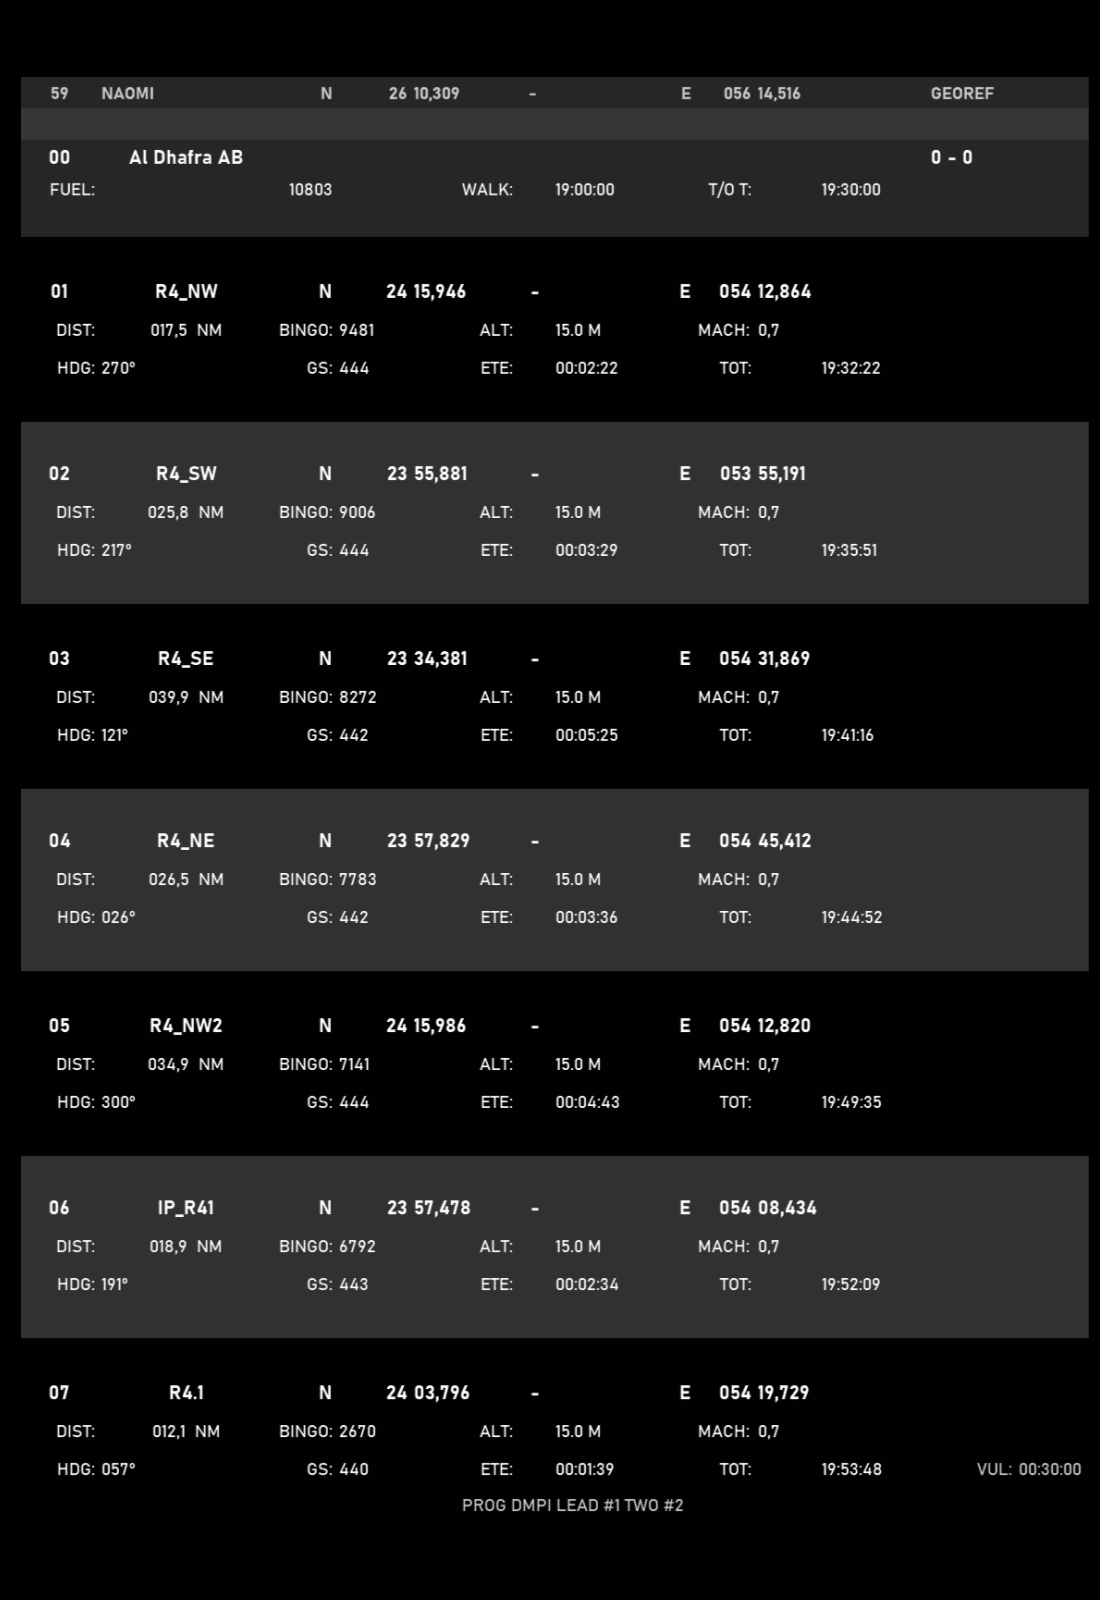
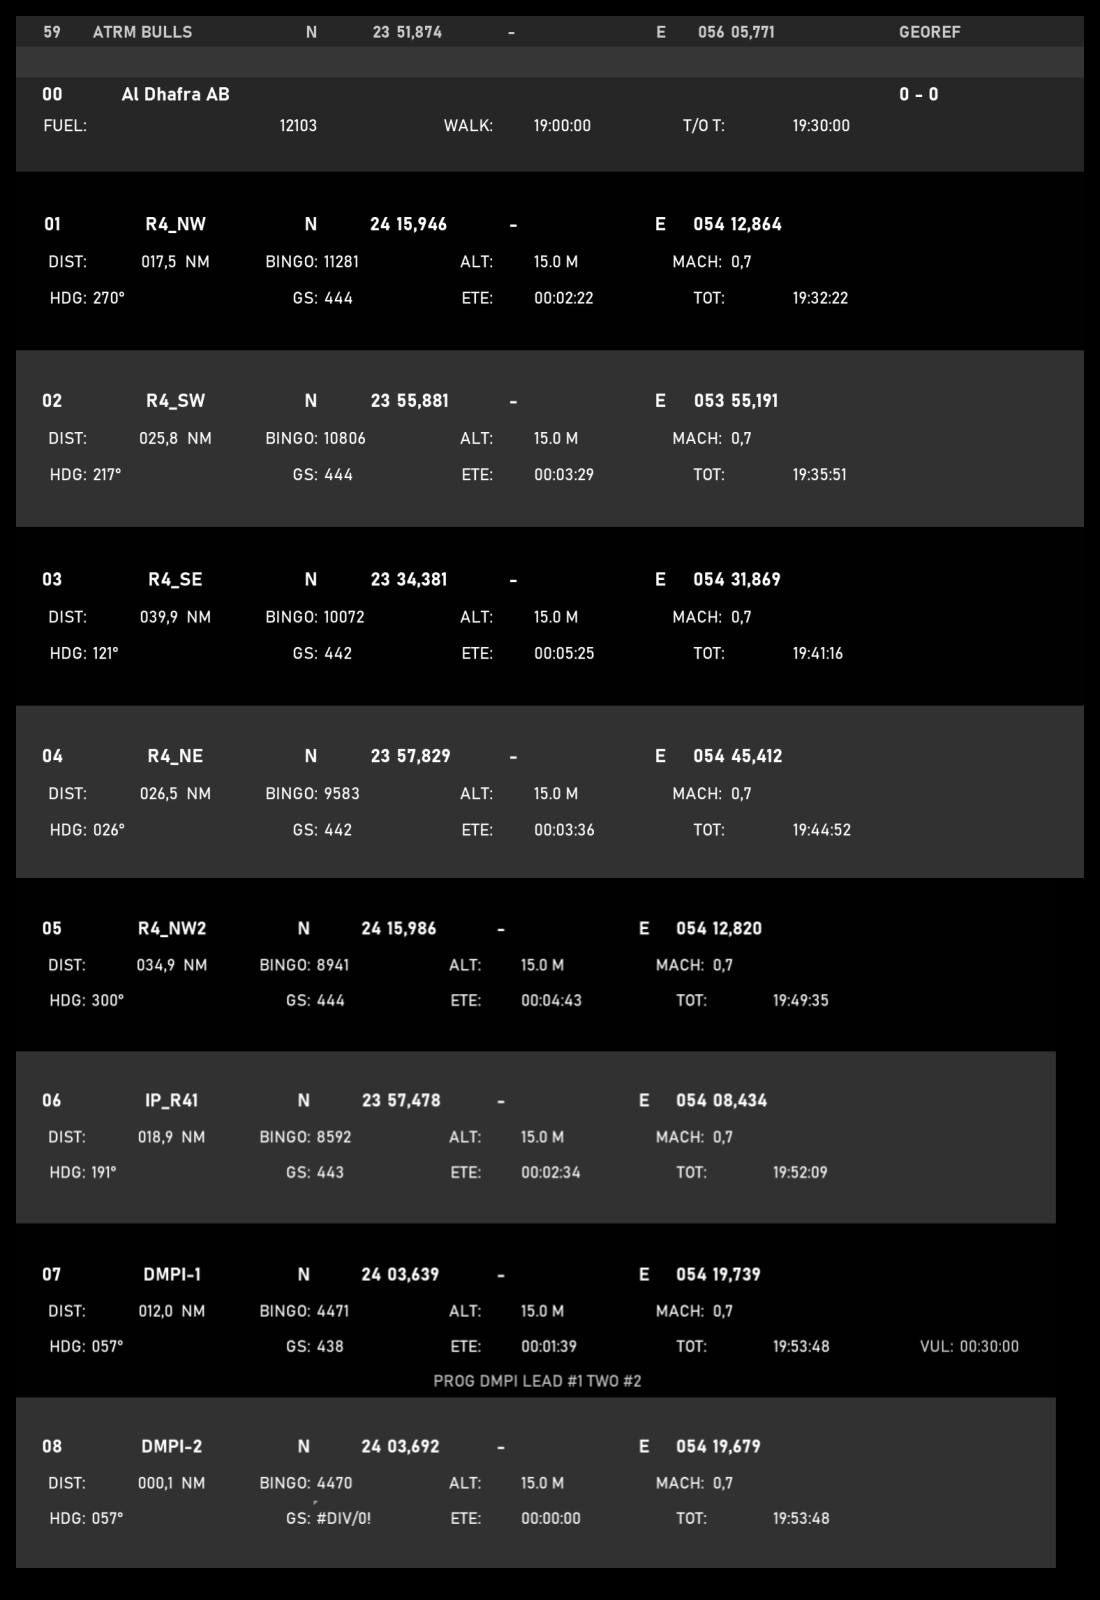
PREPPVIPERFL

diff --git a/index.md b/index.md
@@ -2,24 +2,17 @@
 - | - | -
 [VIPER START](/F16START.MD) | [FLIP GULF](https://www.dropbox.com/s/sp91zf63rx0esao/FLIP_GULFR2_EC1.pdf?dl=0) | [FLIP CAUCASUS](https://www.dropbox.com/s/ppiqy9ba7i8h8op/FLIP_CAUR_EC1.pdf?dl=0)
 
-## VIPER 1 - TR5041
+## VIPER 1 - TR5405
 
 Flight Lead: DAVID  
-WM2: NECK  
-EL: ASHILTA  
-TACAN:: 62 - 125Y  
+WM2: TROLLEF  
+Element Lead:   
+WM4:   
+TACAN: 62 - 125Y  
 
-
-
-## FP
-DEP: VFR SOUTH, 350IAS INI.FL120 DIR. RANGE4  
-REC: ATC DISCRETION  
---  
-LOAD: X6 MK82 LD PER A/C  
-				
-## Objective
-Range practise RGN 4  
-
+## FLIGHTPLAN
+"DEP: VFR SOUTH, 350IAS INI.FL120 DIR. RANGE4
+REC: ATC DISCRETION"
 
 ## LOADOUT
 
@@ -29,62 +22,73 @@ S1 - CAP-9M | S9 - AN/ASQ-T50
 S2 - - | S8 - -
 S3 - 3xMK-82 LD | S7 - 3xMK-82 LD
 S4 - TANK 370 | S6 - TANK 370
-S5 - - | GUN - SAPHEI
-CHAFF - 60 | FLARE - 60
+S5L -  | S5R - 
+S5 - - | SGUN - SAPHEI
+SCHAFF - 60 | SFLARE - 60
 
+				
+## Objective
+Range practise RGN 4  
 
 
 ## STEERPOINTS
 
 ---  												
-###	59	NAOMI	N	26	10,309	  -  	E	056	14,516		GEOREF	
+###	59	ATRM BULLS	N	23	51,874	  -  	E	056	05,771		GEOREF	
 												
 ---  												
 ####	00	Al Dhafra AB									0 - 0	
-#####  	FUEL:		MAX		WALK:		19:00:00	T/O T:		19:30:00		
+#####  	FUEL:		12103		WALK:		19:00:00	T/O T:		19:30:00		
 												
 												
 ---  												
 ###	01	R4_NW	N	24	15,946	  -  	E	054	12,864			
-#####	DIST:	017,5  NM	BINGO:	9481	ALT:		15.0 M	MACH:	0,7			
+#####	DIST:	017,5  NM	BINGO:	11281	ALT:		15.0 M	MACH:	0,7			
 #####	HDG:	270°	GS:	444	ETE:		00:02:22	TOT:		19:32:22		
 												
 												
 ---  												
 ###	02	R4_SW	N	23	55,881	  -  	E	053	55,191			
-#####	DIST:	025,8  NM	BINGO:	9006	ALT:		15.0 M	MACH:	0,7			
+#####	DIST:	025,8  NM	BINGO:	10806	ALT:		15.0 M	MACH:	0,7			
 #####	HDG:	217°	GS:	444	ETE:		00:03:29	TOT:		19:35:51		
 												
 												
 ---  												
 ###	03	R4_SE	N	23	34,381	  -  	E	054	31,869			
-#####	DIST:	039,9  NM	BINGO:	8272	ALT:		15.0 M	MACH:	0,7			
+#####	DIST:	039,9  NM	BINGO:	10072	ALT:		15.0 M	MACH:	0,7			
 #####	HDG:	121°	GS:	442	ETE:		00:05:25	TOT:		19:41:16		
 												
 												
 ---  												
 ###	04	R4_NE	N	23	57,829	  -  	E	054	45,412			
-#####	DIST:	026,5  NM	BINGO:	7783	ALT:		15.0 M	MACH:	0,7			
+#####	DIST:	026,5  NM	BINGO:	9583	ALT:		15.0 M	MACH:	0,7			
 #####	HDG:	026°	GS:	442	ETE:		00:03:36	TOT:		19:44:52		
 												
 												
 ---  												
 ###	05	R4_NW2	N	24	15,986	  -  	E	054	12,820			
-#####	DIST:	034,9  NM	BINGO:	7141	ALT:		15.0 M	MACH:	0,7			
+#####	DIST:	034,9  NM	BINGO:	8941	ALT:		15.0 M	MACH:	0,7			
 #####	HDG:	300°	GS:	444	ETE:		00:04:43	TOT:		19:49:35		
 												
 												
 ---  												
 ###	06	IP_R41	N	23	57,478	  -  	E	054	08,434			
-#####	DIST:	018,9  NM	BINGO:	6792	ALT:		15.0 M	MACH:	0,7			
+#####	DIST:	018,9  NM	BINGO:	8592	ALT:		15.0 M	MACH:	0,7			
 #####	HDG:	191°	GS:	443	ETE:		00:02:34	TOT:		19:52:09		
 												
 												
 ---  												
-###	07	R4.1	N	24	03,796	  -  	E	054	19,729			
-#####	DIST:	012,1  NM	BINGO:	2670	ALT:		15.0 M	MACH:	0,7			
-#####	HDG:	057°	GS:	440	ETE:		00:01:39	TOT:		19:53:48	VUL:	00:30:00
-####	PROG DMPI LEAD #1 TWO #2 THREE #1											
+###	07	DMPI-1	N	24	03,639	  -  	E	054	19,739			
+#####	DIST:	012,0  NM	BINGO:	4471	ALT:		15.0 M	MACH:	0,7			
+#####	HDG:	057°	GS:	438	ETE:		00:01:39	TOT:		19:53:48	VUL:	00:30:00
+####	PROG DMPI LEAD #1 TWO #2											
+												
+---  												
+###	08	DMPI-2	N	24	03,692	  -  	E	054	19,679			
+#####	DIST:	000,1  NM	BINGO:	4470	ALT:		15.0 M	MACH:	0,7			
+#####	HDG:	057°	GS:	#DIV/0!	ETE:		00:00:00	TOT:		19:53:48		
+												
+
 
 
 
@@ -98,8 +102,6 @@ CHAFF - 60 | FLARE - 60
 ## METAR: 
 
 #### NOTAM: 
-REPORT PASSING 3000 FT  
-
 
 ## COMMS
 
@@ -116,6 +118,7 @@ REPORT PASSING 3000 FT
 #### Liwa ATIS / - / Liwa ATIS / 119.700 / AMPN:0
 #### Al Ain TWR / - / Al Ain TWR / 119.200 / AMPN:DIVERT. RGN 7
 #### Al Ain ATIS / - / Al Ain ATIS / 119.400 / AMPN:0
+
 
 
 ## SPINS
